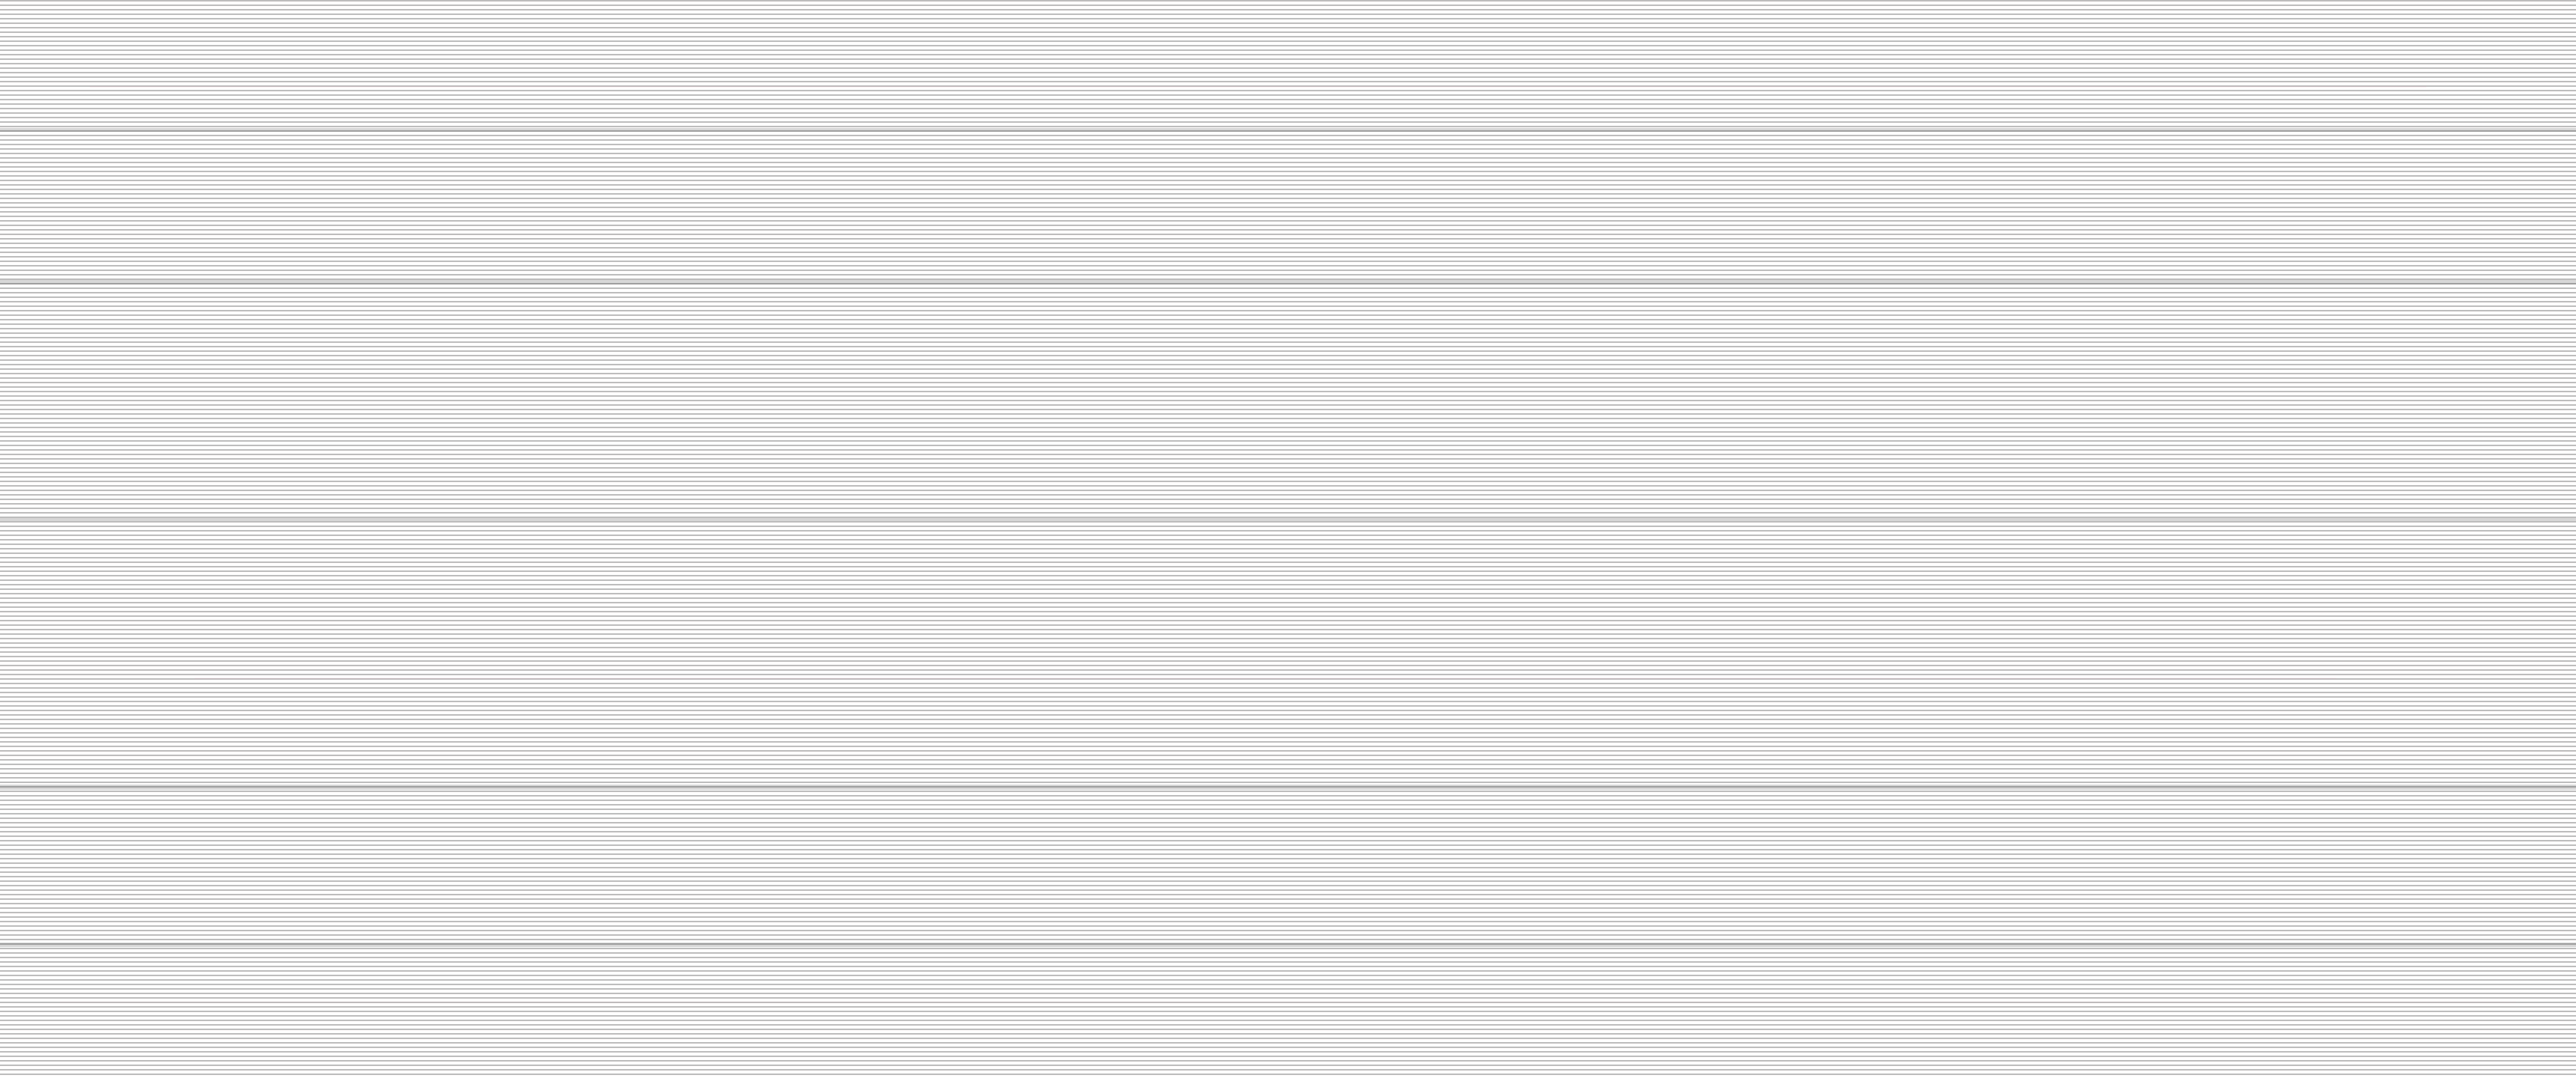
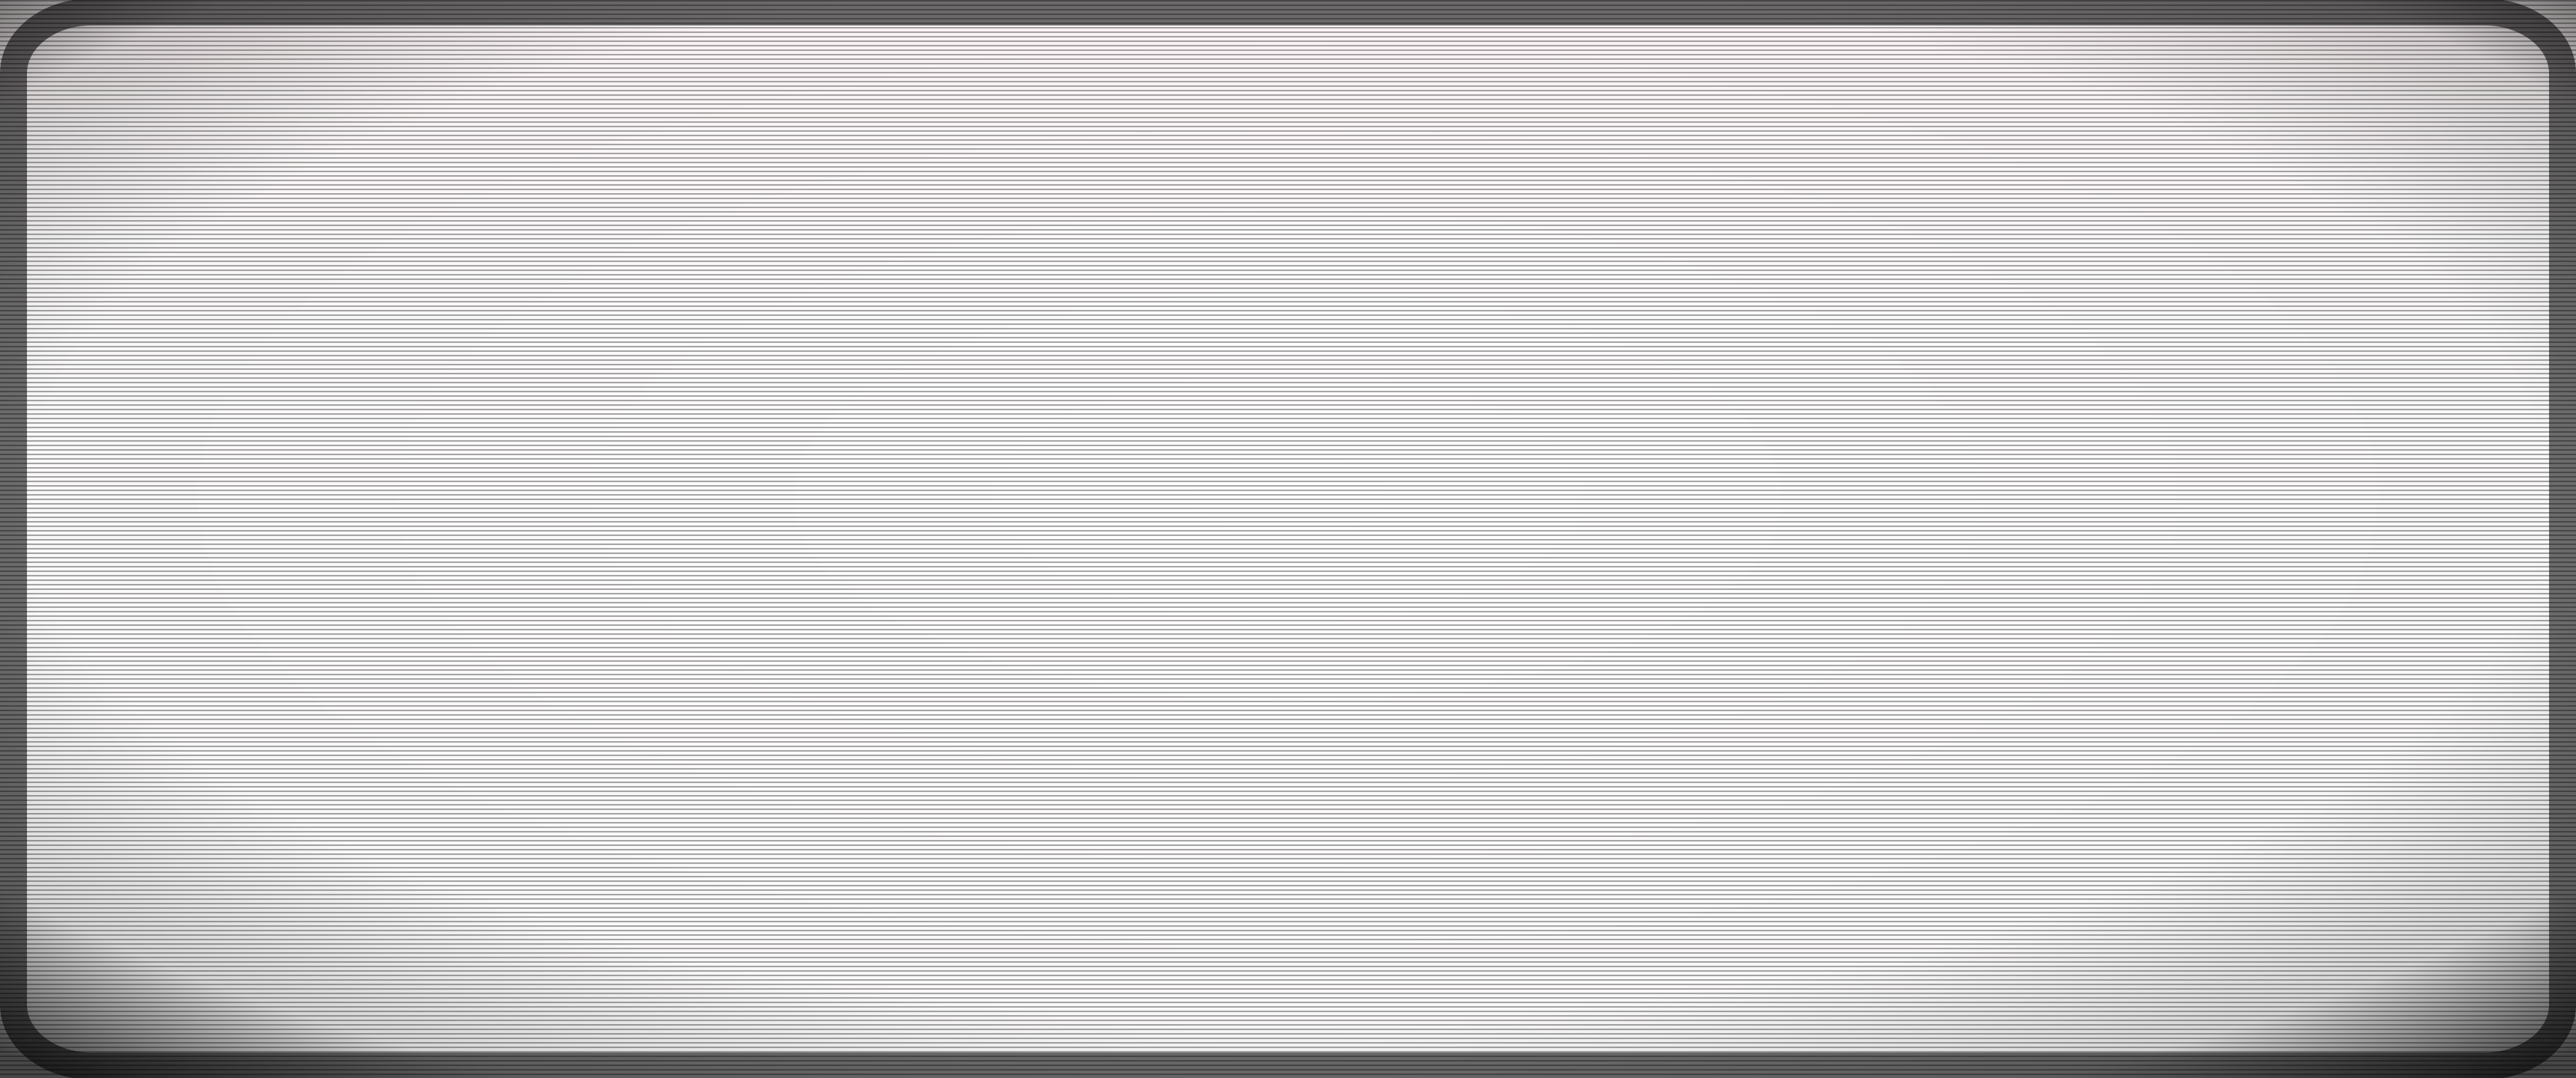
layout adjustments

Changed region(s): [[0.0, 0.0, 1.0, 1.0]]

diff --git a/README.md b/README.md
@@ -1,40 +1,3 @@
 # LucyGRUB terminal theme
 
-A GRUB 2 theme targeting a 3440x1440 ultrawide display. It combines a black/crimson terminal layout with scanlines, faint signal dropout, and narrow horizontal distortion bands while keeping GRUB's boot menu fully live.
-
-## Build
-
-The build requires `rsvg-convert`, `fc-match`, `grub2-mkfont`, and Source Code Pro Regular.
-
-```bash
-./build.sh
-```
-
-Editable SVG sources live under `src/`; ready-to-install assets live under `theme/`. The generated theme assets are intentionally tracked so installation does not require the build toolchain.
-
-The Debian and generic Linux SVGs are rasterized to GRUB-compatible PNGs. Generic `linux` and `gnu-linux` menu classes share the Tux fallback, while Fedora, Debian, and Windows use their own icons.
-
-## Install on Fedora
-
-```bash
-sudo ./install.sh
-```
-
-The installer:
-
-- saves `/etc/default/grub`, the generated `grub.cfg`, and the previous theme under `/boot/grub2/theme-backups/`;
-- installs to `/boot/grub2/themes/lucygrub-terminal/`;
-- enables `gfxterm`, the theme, the custom font, and a safe graphics-mode fallback chain;
-- unhides Fedora's GRUB menu;
-- regenerates and syntax-checks `/boot/grub2/grub.cfg`.
-
-Do not generate GRUB configuration into `/boot/efi/EFI/fedora/grub.cfg` on modern Fedora.
-
-## Font alternatives
-
-- **IBM Plex Mono Regular** — best polished match for the current composition.
-- **Terminus** — sharpest retro/firmware look.
-- **JetBrains Mono Nerd Font** — modern, heavier, and already installed locally.
-- **Source Code Pro Regular** — current default; clean and highly readable.
-
-After changing the font source in `build.sh`, also update the exact internal font name in `theme/theme.txt`. The name is printed by `grub2-mkfont --verbose`.
+A black/crimson GRUB theme.